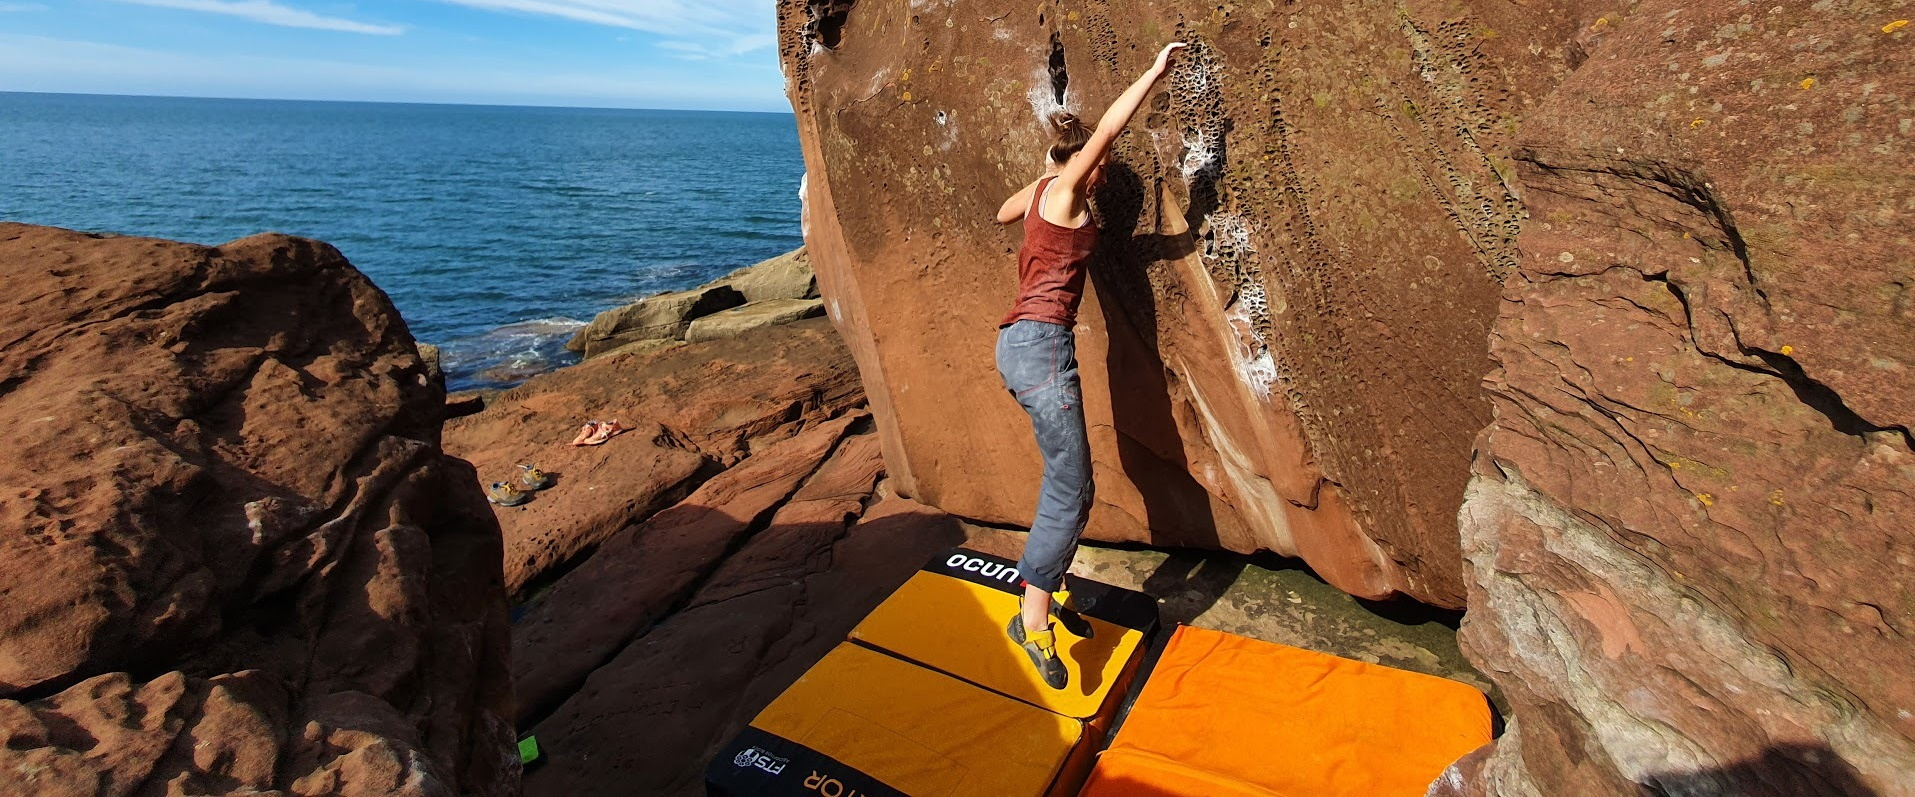
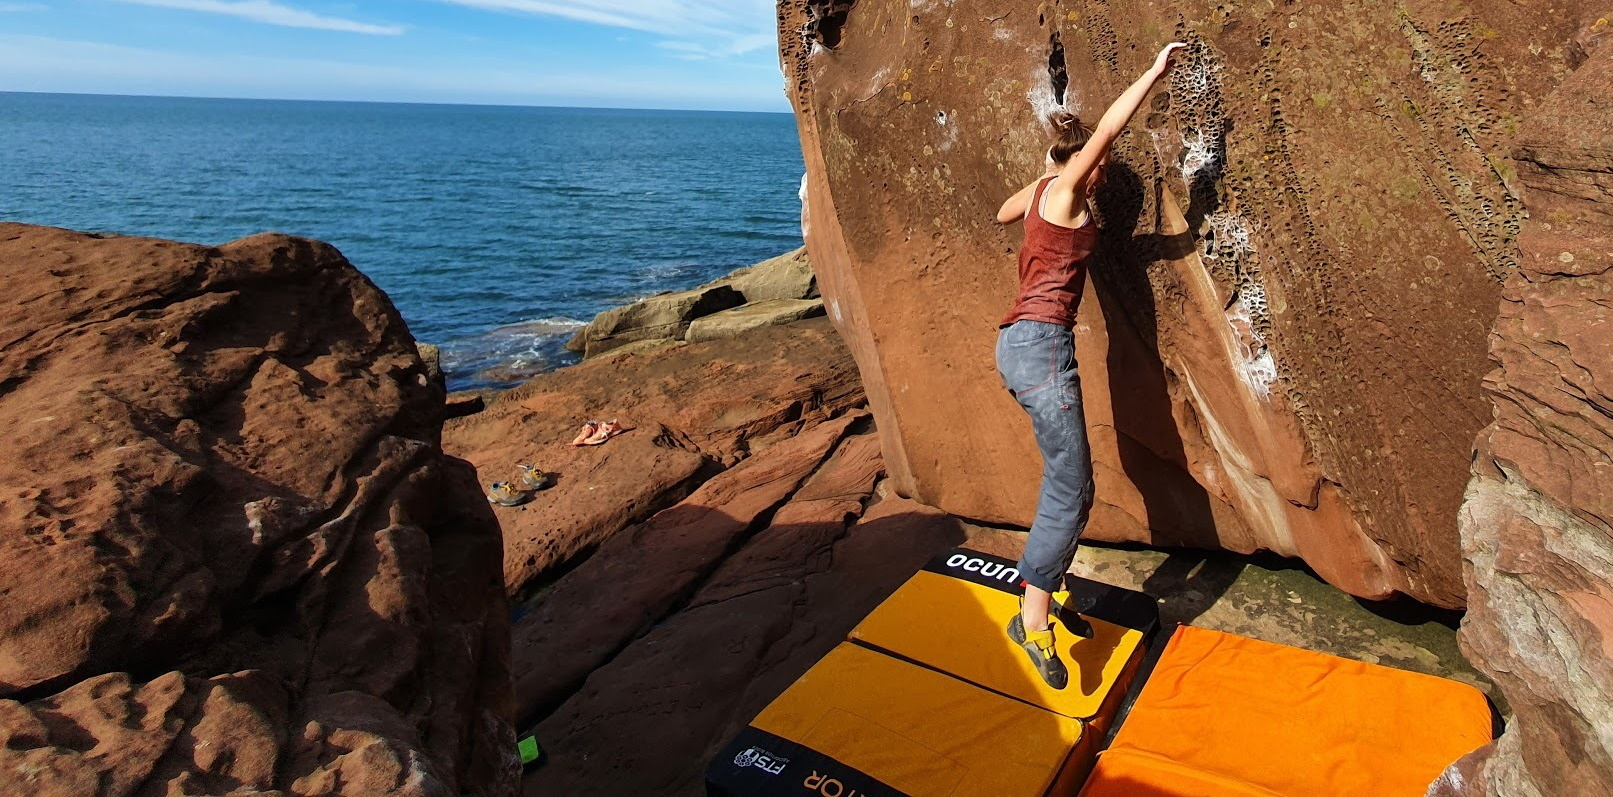
final committee photos~

diff --git a/client/src/dashboard/views/about/committee/committee.js b/client/src/dashboard/views/about/committee/committee.js
@@ -52,8 +52,8 @@ const committee = {
             role: "Outdoor Meets Secretary",
             name: "Joe McDermott",
             social: "outdoor-meets@cumc.org.uk",
-            profile: require(`../../../../assets/img/committee/notFound.jpg`).default,
-            cover: require(`../../../../assets/img/committee/background.jpg`).default,
+            profile: require(`../../../../assets/img/committee/outdoorMeets2.jpg`).default,
+            cover: require(`../../../../assets/img/committee/outdoorMeets2Cover.jpg`).default,
         }
     ],
     gear: {
